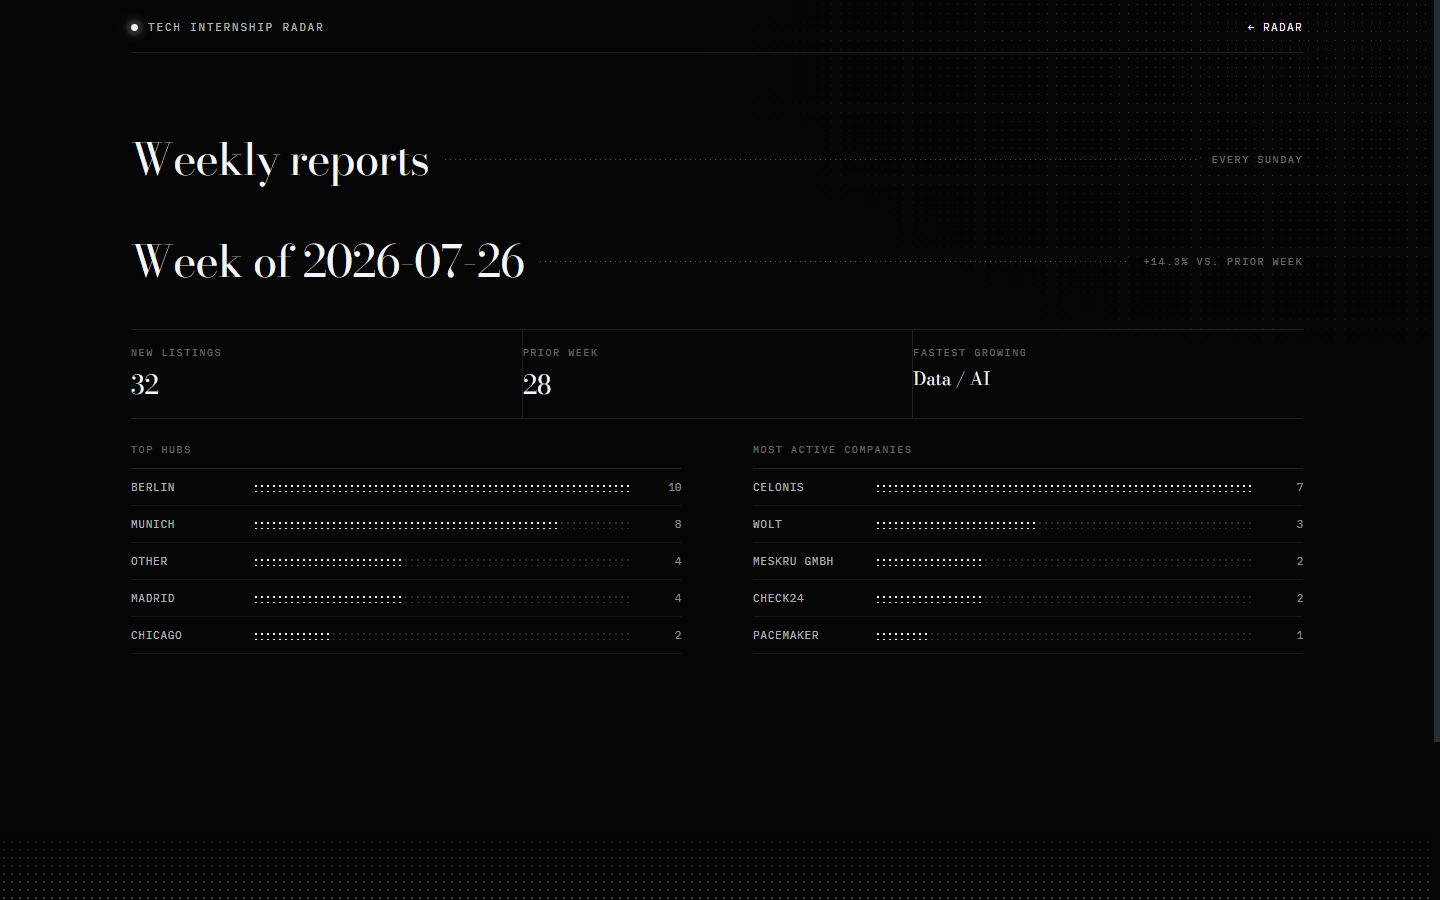
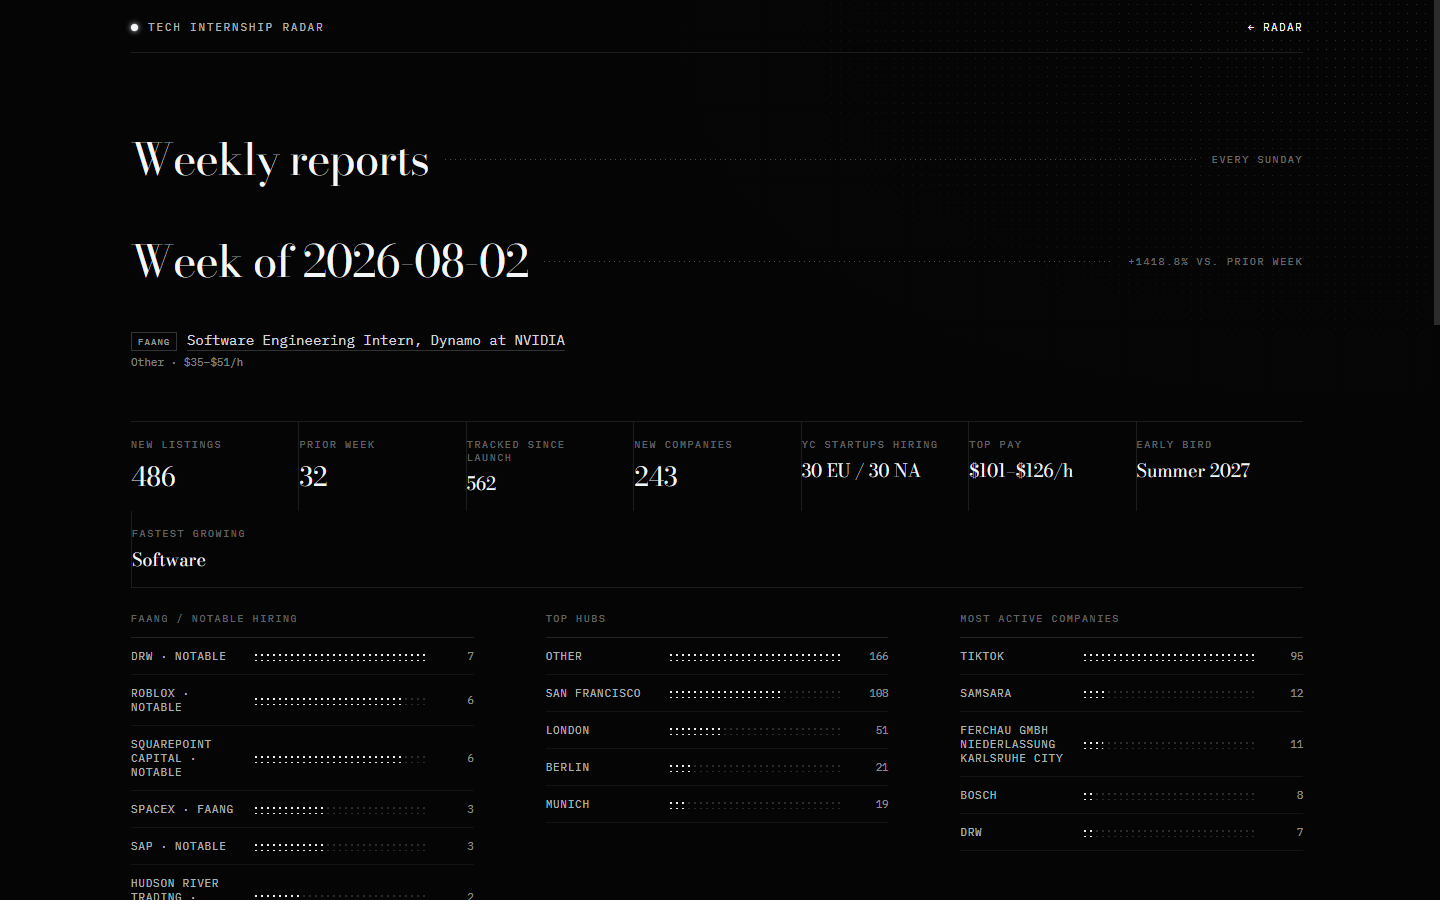
docs: refresh weekly report screenshot and description
New screenshot shows the enriched report card (FAANG/notable hiring,
top pay, early-cycle pick, YC hiring, new companies, tracked-since-
launch) instead of the old 3-stat version.

diff --git a/README.md b/README.md
@@ -86,8 +86,12 @@ A weekly market snapshot, generated straight from the pipeline, every Sunday:
   its full posting history in one place.
 - **Watchlist.** Watch a company from its page and a banner tells you the moment it posts
   something new. Stored on your device, no account, no email.
-- **Weekly reports**, every Sunday: new-listing counts, week-over-week change, the hottest hubs
-  and companies, and the fastest-growing discipline.
+- **Weekly reports**, every Sunday: new-listing counts and week-over-week change, which FAANG/
+  notable-tier companies are hiring, the week's top-paying listing, the first sighting of a
+  hiring cycle beyond the current year, brand-new companies posting for the first time, YC
+  startups hiring in Europe and North America, the hottest hubs and companies, and the
+  fastest-growing discipline. Each week gets its own shareable link with a real preview image,
+  auto-posted as ready-to-use drafts for Twitter/X, LinkedIn, and Reddit.
 - Every hub, keyword, and company lives in `config/`, so growing coverage is a data change, not
   a code change. See [Contributing](#contributing) below.
 - Sources: Greenhouse, Lever, Ashby, Workday, SmartRecruiters, and Recruitee's public job board
